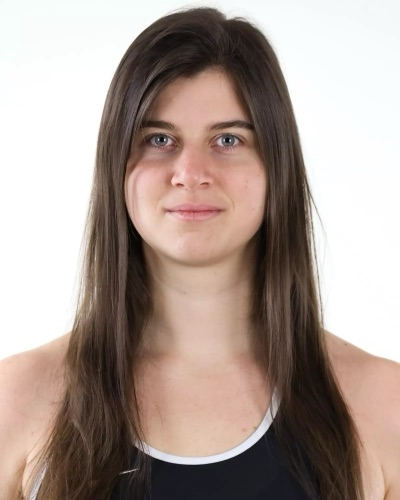
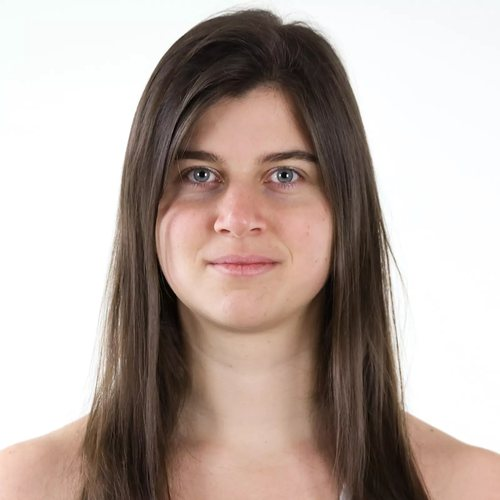
Recrop two portraits on the face; reorder sections; unobfuscate email
Both avatar.jpg and marta_laska.jpeg were tall portraits with the face in
the upper third, so the CSS square crop (aspect-ratio 1 + object-fit:
cover, which crops from the centre) cut the tops of both heads off. Both
are now recropped square from the full-resolution originals, framed with
the face at roughly 40-45% of the height. Because the source is square,
the CSS now crops nothing at all.

Section order is intro -> press -> group -> outreach -> research ->
contact, promoting press and demoting the research section, which is still
the 2013-2019 narrative pending its rewrite in Sessions 9-10.

The "(firstname).(lastname)@psu.edu" anti-spam obfuscation is retired for a
plain mailto link.

diff --git a/content/contact.md b/content/contact.md
@@ -3,4 +3,4 @@ title: Contact
 ---
 
 My office is Davey Laboratory 515. You can reach me electronically at
-(firstname).(lastname)@psu.edu.
+[joel.leja@psu.edu](mailto:joel.leja@psu.edu).
